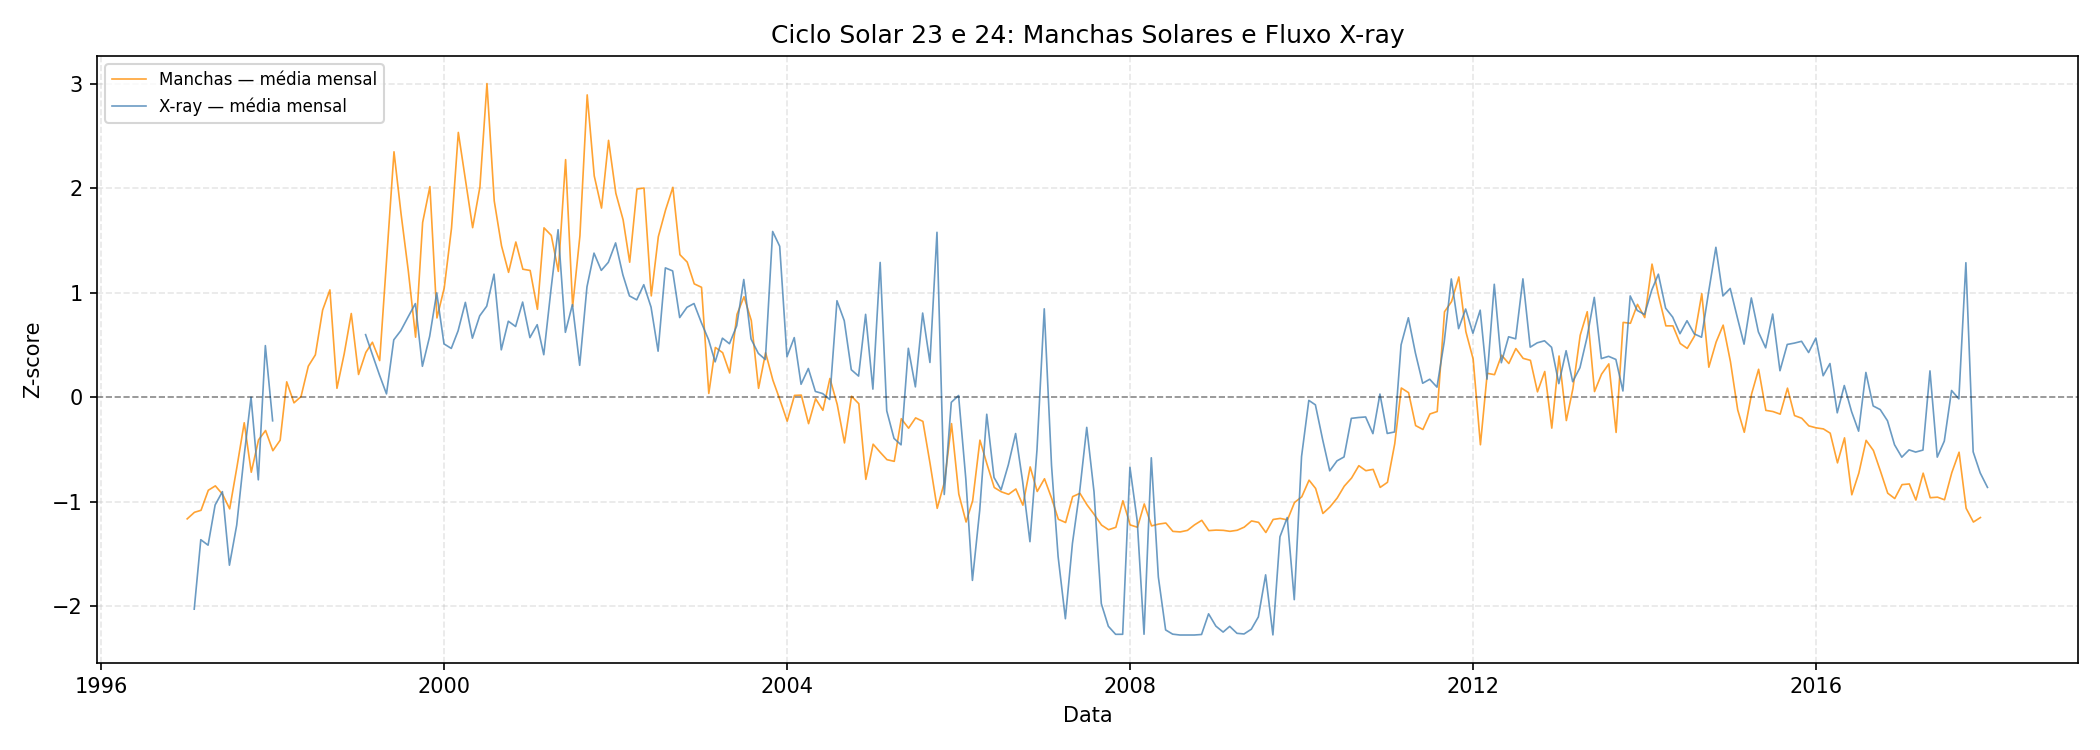
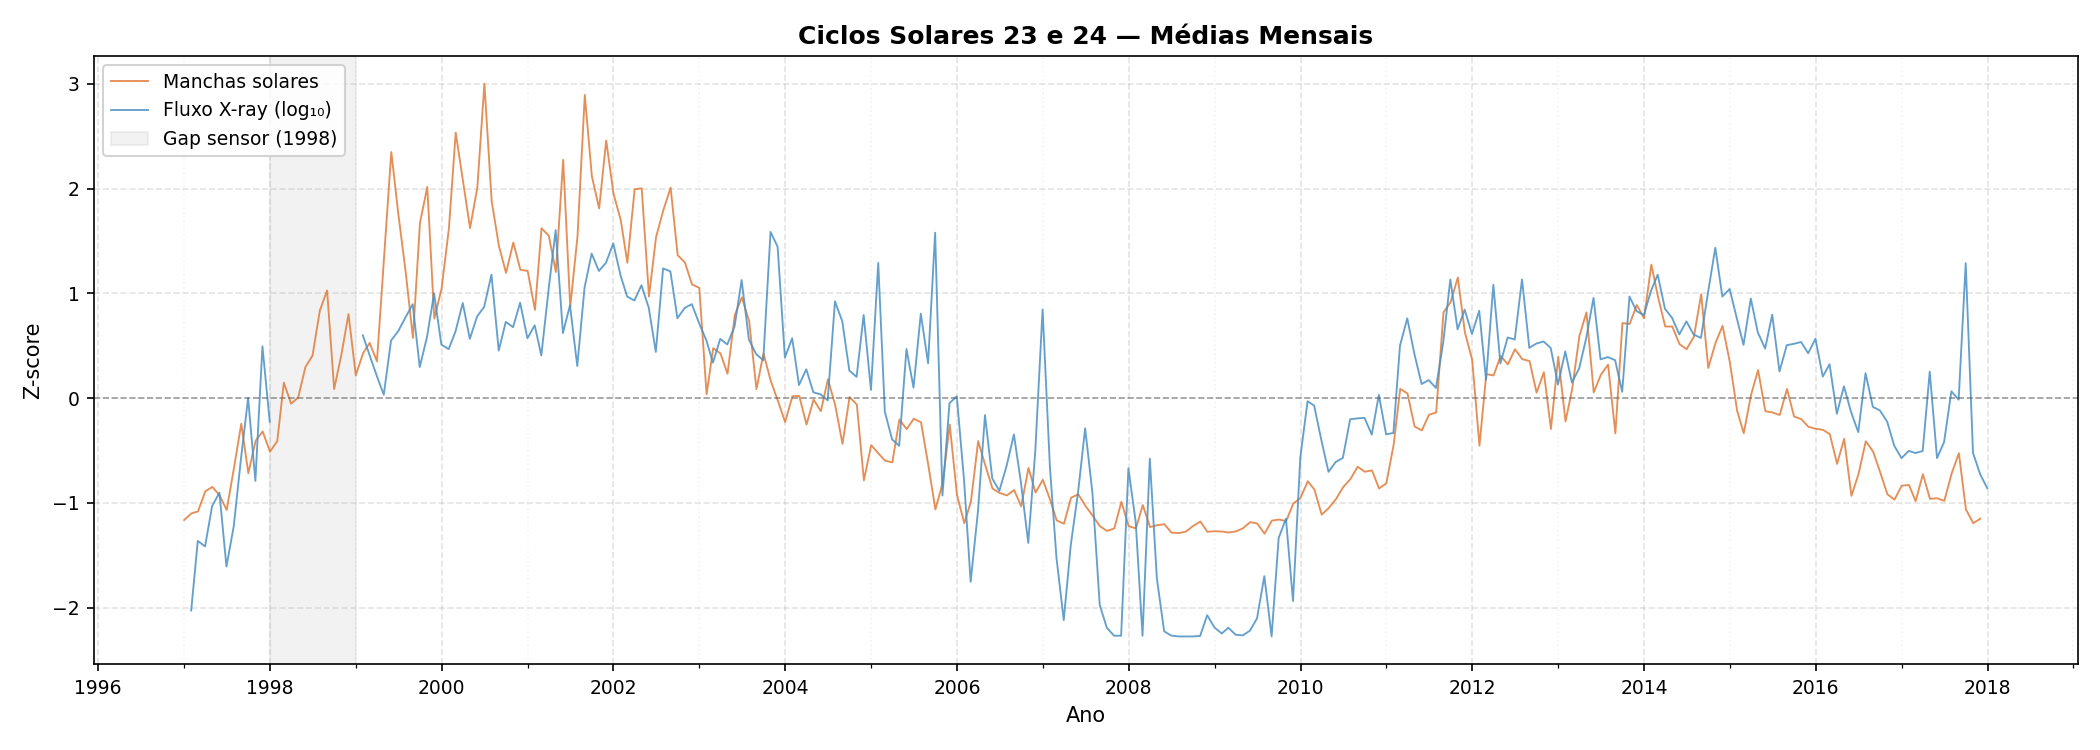
Aplicação do filtro Savitzky Golay

diff --git a/xray/plot.py b/xray/plot.py
@@ -1,67 +1,116 @@
 import pandas as pd
 import matplotlib.pyplot as plt
+import matplotlib.dates as mdates
 import numpy as np
 from scipy.signal import savgol_filter
 from scipy.stats import zscore
+import os
 
-# ── 1. Manchas solares ──────────────────────────────────────────────────────
-colunas = ['Ano', 'Mes', 'Dia', 'Ano_Fracionado', 'Num_Manchas', 'Desvio_Padrao', 'Num_Observacoes', 'Marcador']
-df_spots = pd.read_csv("dados/daily_Sunspots(97-17).csv", sep=';', names=colunas)
+os.makedirs("gráficos", exist_ok=True)
+
+# ── 1. Manchas solares ────────────────────────────────────────────────────────
+colunas = ['Ano','Mes','Dia','Ano_Fracionado','Num_Manchas','Desvio_Padrao','Num_Observacoes','Marcador']
+df_spots = pd.read_csv('dados/daily_Sunspots(97-17).csv', sep=';', names=colunas)
 df_spots = df_spots[df_spots['Num_Manchas'] >= 0]
 
-df_mensal = df_spots.groupby(['Ano', 'Mes'])['Num_Manchas'].mean().reset_index()
+df_mensal = df_spots.groupby(['Ano','Mes'])['Num_Manchas'].mean().reset_index()
 df_mensal['Data'] = pd.to_datetime(
-    df_mensal[['Ano', 'Mes']].assign(day=1).rename(columns={'Ano': 'year', 'Mes': 'month'})
+    df_mensal[['Ano','Mes']].assign(day=1).rename(columns={'Ano':'year','Mes':'month'})
 )
+
 df_mensal['Z'] = zscore(df_mensal['Num_Manchas'], nan_policy='omit')
-df_mensal['Z_Suave'] = savgol_filter(df_mensal['Z'], window_length=13, polyorder=3)
+df_mensal['Z_Suave'] = savgol_filter(df_mensal['Z'], 13, 3)
 
-# ── 2. Fluxo X-ray GOES ─────────────────────────────────────────────────────
-df_xray = pd.read_csv("dados/daily_xray(97-17).csv", index_col=0, parse_dates=True)
-xray_monthly = df_xray["xrsb"].resample("ME").agg(mean="mean", count="count")
-xray_monthly.loc[xray_monthly["count"] < 10, "mean"] = np.nan
+# ── 2. X-ray ──────────────────────────────────────────────────────────────────
+df_xray = pd.read_csv('dados/daily_xray(97-17).csv', index_col=0, parse_dates=True)
 
-xray_log = np.log10(xray_monthly["mean"])
-mascara = xray_log.notna()
-xray_log_z = (xray_log - xray_log[mascara].mean()) / xray_log[mascara].std()
+xray_m_mean  = df_xray['xrsb'].resample('ME').mean()
+xray_m_count = df_xray['xrsb'].resample('ME').count()
+xray_m_mean[xray_m_count < 10] = np.nan    
+
+# Log-transform e Z-score
+xray_log  = np.log10(xray_m_mean)
+mask_ok   = xray_log.notna()
+xray_log_z = (xray_log - xray_log[mask_ok].mean()) / xray_log[mask_ok].std()
+
 
 xray_interp = xray_log_z.interpolate(method='time')
-xray_z_suave = pd.Series(
-    savgol_filter(xray_interp, window_length=23, polyorder=3),
-    index=xray_log_z.index
-)
-xray_z_suave[xray_log_z.isna()] = np.nan
 
-# ── 3. Gráfico 1 — Dados brutos (sem suavização) ────────────────────────────
+sg_vals    = savgol_filter(xray_interp.values, 13, 3)
+xray_suave = pd.Series(sg_vals, index=xray_log_z.index)
+
+# Recorta para período com dados válidos em ambas as extremidades
+t0 = xray_log_z.first_valid_index()
+t1 = xray_log_z.last_valid_index()
+xray_log_z = xray_log_z.loc[t0:t1]
+xray_suave = xray_suave.loc[t0:t1]
+dates_spots = df_mensal['Data']
+
+def formata_eixo(ax):
+    ax.xaxis.set_major_locator(mdates.YearLocator(2))
+    ax.xaxis.set_minor_locator(mdates.YearLocator(1))
+    ax.xaxis.set_major_formatter(mdates.DateFormatter('%Y'))
+    ax.tick_params(axis='x', labelsize=9)
+    ax.tick_params(axis='y', labelsize=9)
+    ax.set_ylabel("Z-score", fontsize=10)
+    ax.set_xlabel("Ano", fontsize=10)
+    ax.grid(True, which='major', linestyle='--', alpha=0.35)
+    ax.grid(True, which='minor', linestyle=':', alpha=0.15)
+    ax.axhline(0, color='#555555', linewidth=0.8, linestyle='--', alpha=0.5)
+    # Sombreia o gap de 1998
+    ax.axvspan(pd.Timestamp('1998-01-01'), pd.Timestamp('1999-01-01'),
+               color='gray', alpha=0.10, label='Gap sensor (1998)')
+
+
+# ── Gráfico 1 — Bruto ─────────────────────────────────────────────────────────
 fig1, ax1 = plt.subplots(figsize=(14, 5))
 
-ax1.plot(df_mensal['Data'], df_mensal['Z'],
-         color='darkorange', linewidth=0.8, alpha=0.8, label='Manchas — média mensal')
+ax1.plot(dates_spots, df_mensal['Z'],
+         color='#E07B39', linewidth=0.9, alpha=0.85, label='Manchas solares')
 ax1.plot(xray_log_z.index, xray_log_z,
-         color='steelblue', linewidth=0.8, alpha=0.8, label='X-ray — média mensal')
-ax1.axhline(0, color='black', linewidth=0.8, linestyle='--', alpha=0.4)
-ax1.set_ylabel("Z-score")
-ax1.set_xlabel("Data")
-ax1.set_title("Ciclo Solar 23 e 24: Manchas Solares e Fluxo X-ray")
-ax1.legend(loc="upper left", fontsize=8)
-ax1.grid(True, linestyle='--', alpha=0.3)
+         color='#4A90C4', linewidth=0.9, alpha=0.85, label='Fluxo X-ray (log₁₀)')
+formata_eixo(ax1)
+ax1.set_title("Ciclos Solares 23 e 24 — Médias Mensais", fontsize=12, fontweight='bold')
+ax1.legend(loc='upper left', fontsize=9, framealpha=0.85)
 fig1.tight_layout()
-plt.savefig("gráficos/ciclo_solar_bruto.png", dpi=150)
+fig1.savefig('gráficos/ciclo_solar_bruto.png', dpi=150)
+plt.close(fig1)
 
-# ── 4. Gráfico 2 — Dados suavizados ─────────────────────────────────────────
+# ── Gráfico 2 — Suavizado SG ──────────────────────────────────────────────────
 fig2, ax2 = plt.subplots(figsize=(14, 5))
 
-ax2.plot(df_mensal['Data'], df_mensal['Z_Suave'],
-         color='darkred', linewidth=2, label='Manchas - média mensal')
-ax2.plot(xray_z_suave.index, xray_z_suave,
-         color='steelblue', linewidth=2, label='X-ray - média mensal')
-ax2.axhline(0, color='black', linewidth=0.8, linestyle='--', alpha=0.4)
-ax2.set_ylabel("Z-score")
-ax2.set_xlabel("Data")
-ax2.set_title("Ciclo Solar 23 e 24: Manchas Solares e Fluxo X-ray")
-ax2.legend(loc="upper left", fontsize=8)
-ax2.grid(True, linestyle='--', alpha=0.3)
+ax2.plot(dates_spots, df_mensal['Z_Suave'],
+         color='#B22222', linewidth=2.2, label=f'Manchas solares (SG, w={13})')
+ax2.plot(xray_suave.index, xray_suave,
+         color=COR_XRAY_SG, linewidth=2.2, label=f'Fluxo X-ray (SG, w={13})')
+formata_eixo(ax2)
+ax2.set_title("Ciclos Solares 23 e 24 — Savitzky-Golay", fontsize=12, fontweight='bold')
+ax2.legend(loc='upper left', fontsize=9, framealpha=0.85)
 fig2.tight_layout()
-plt.savefig("gráficos/ciclo_solar_suavizado.png", dpi=150)
+fig2.savefig('gráficos/ciclo_solar_suavizado.png', dpi=150)
+plt.close(fig2)
 
-plt.show()
+# ── Gráfico 3 — Comparação ─────────────────────────────────
+fig3, (ax_top, ax_bot) = plt.subplots(2, 1, figsize=(14, 9), sharex=True)
+
+ax_top.plot(dates_spots, df_mensal['Z'],
+            color='#E07B39', linewidth=0.8, alpha=0.5, label='Bruto')
+ax_top.plot(dates_spots, df_mensal['Z_Suave'],
+            color='#B22222', linewidth=2.2, label=f'SG w={13}')
+formata_eixo(ax_top)
+ax_top.set_xlabel("")
+ax_top.set_title("Ciclos Solares 23 e 24 — Comparação", fontsize=12, fontweight='bold')
+ax_top.set_ylabel("Z-score — Manchas", fontsize=10)
+ax_top.legend(loc='upper left', fontsize=9, framealpha=0.85)
+
+ax_bot.plot(xray_log_z.index, xray_log_z,
+            color='#4A90C4', linewidth=0.8, alpha=0.5, label='Bruto')
+ax_bot.plot(xray_suave.index, xray_suave,
+            color=COR_XRAY_SG, linewidth=2.2, label=f'SG w={13}')
+formata_eixo(ax_bot)
+ax_bot.set_ylabel("Z-score — X-ray", fontsize=10)
+ax_bot.legend(loc='upper left', fontsize=9, framealpha=0.85)
+
+fig3.tight_layout()
+fig3.savefig('gráficos/ciclo_solar_comparacao.png', dpi=150)
+plt.close(fig3)